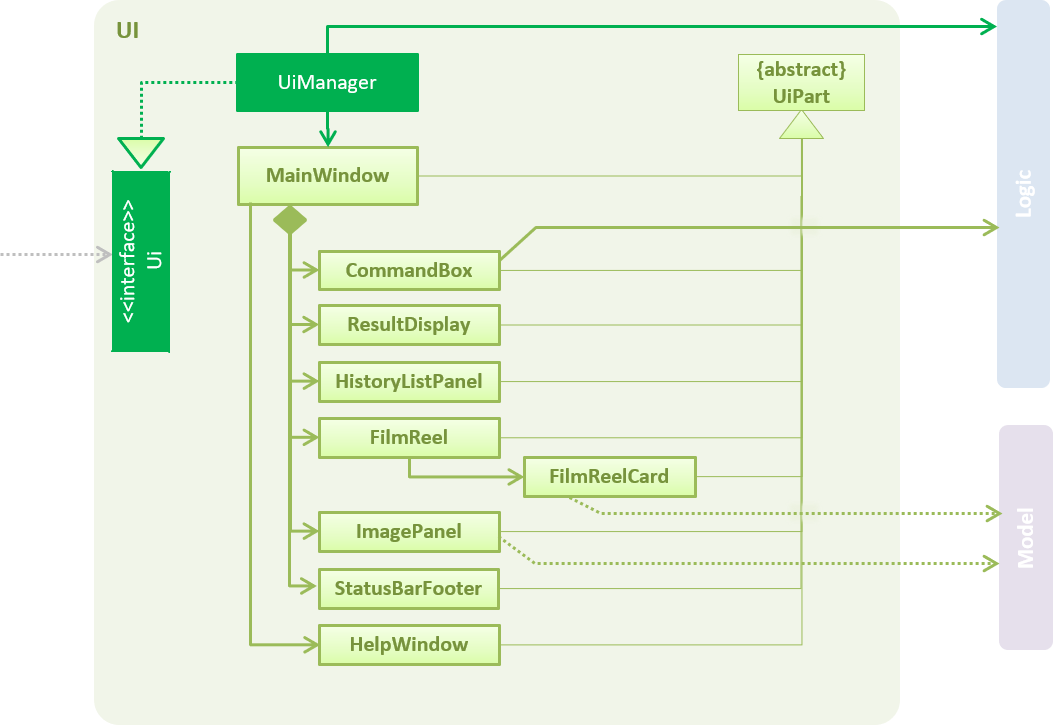
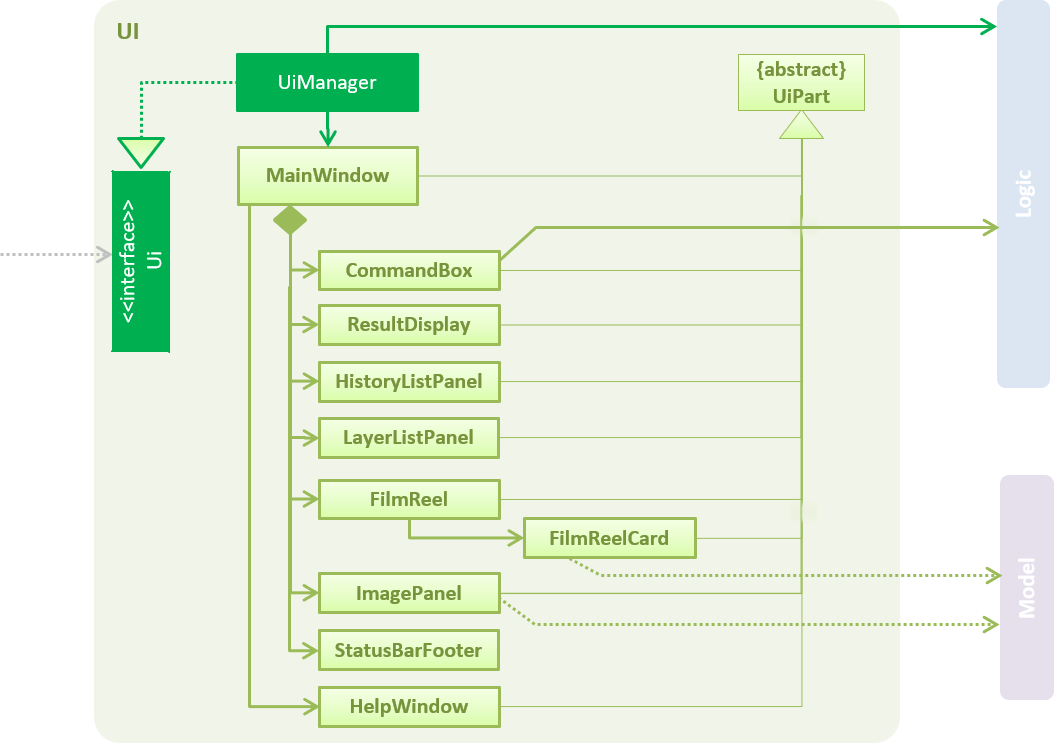
Updated the DG and my PPP.

diff --git a/src/main/java/seedu/address/model/ModelManager.java b/src/main/java/seedu/address/model/ModelManager.java
@@ -273,7 +273,7 @@ public class ModelManager extends ComponentManager implements Model {
     @Override
     public void updateCurrentPreviewImage(BufferedImage image) {
         try {
-            getCanvas().getCurrentLayer().getImage().commit(image);
+            canvas.getCurrentLayer().getImage().commit(image);
             refreshHistoryList();
         } catch (Exception e) {
             logger.severe(e.getMessage());
@@ -315,6 +315,47 @@ public class ModelManager extends ComponentManager implements Model {
     //=========== Canvas and layers ==========================================================================
 
     //@@author j-lum
+
+    /**
+     * Sets the background color of the canvas to the provided color.
+     * @param color - valid color string in either hex, rgb/hsl(a) or none.
+     */
+    public void setBackgroundColor(String color) {
+        canvas.setBackgroundColor(color);
+    }
+
+    /**
+     * Sets the canvas size to the new size provided.
+     * @param height - a integer larger than 0.
+     * @param width - a integer larger than 0.
+     */
+    public void setCanvasSize(int height, int width) {
+        canvas.setHeight(height);
+        canvas.setWidth(width);
+    }
+
+    /**
+     * Turns auto-resizing of the canvas on/off.
+     * @param auto - if true, the canvas auto-resizes.
+     */
+    public void setCanvasAuto(boolean auto) {
+        canvas.setCanvasAuto(auto);
+    }
+
+    /**
+     * @return the height of the canvas.
+     */
+    public int getCanvasHeight() {
+        return canvas.getHeight();
+    }
+
+    /**
+     * @return the width of the canvas.
+     */
+    public int getCanvasWidth() {
+        return canvas.getWidth();
+    }
+
     /**
      * Adds a layer to the canvas, a name is generated automatically.
      * @param i - PreviewImage to add.
@@ -336,28 +377,26 @@ public class ModelManager extends ComponentManager implements Model {
 
     /**
      * Removes the layer at the given index.
-     * @param i - Index of the layer to remove
-     * @return the new index of the current layer
+     * @param i - Index of the layer to remove.
+     * @return the new index of the current layer.
      * @throws IllegalOperationException - thrown if the current layer is being removed
      * or the only layer is being removed.
      */
 
     public Index removeLayer(Index i) throws IllegalOperationException {
         Index tmp = canvas.removeLayer(i);
-        logger.info("refreshing after deleting layers");
         refreshLayerList();
         return tmp;
     }
 
-    public Canvas getCanvas() {
-        return canvas;
-    }
-
     public void setCurrentLayer(Index i) {
-        getCanvas().setCurrentLayer(i);
+        canvas.setCurrentLayer(i);
         refreshLayerList();
     }
 
+    public void setCurrentLayerPosition(int x, int y) {
+        canvas.setCurrentLayerPosition(x, y);
+    }
 
     /**
      * Swaps two layers.
@@ -366,17 +405,20 @@ public class ModelManager extends ComponentManager implements Model {
      * @throws IllegalOperationException - thrown when the two layers are the same.
      */
     public void swapLayer(Index to, Index from) throws IllegalOperationException {
-        getCanvas().swapLayer(to, from);
+        canvas.swapLayer(to, from);
         refreshLayerList();
     }
 
+    public Canvas getCanvas() {
+        return canvas;
+    }
     /**
      * Simple utility function that updates the HistoryListPanel and logs the event.
      */
     public void refreshHistoryList() {
         EventsCenter.getInstance().post(
                 new HistoryUpdateEvent(
-                        getCanvas().getCurrentLayer().getImage().getTransformationsAsString()));
+                        canvas.getCurrentLayer().getImage().getTransformationsAsString()));
     }
 
     /**
@@ -386,6 +428,6 @@ public class ModelManager extends ComponentManager implements Model {
     private void refreshLayerList() {
         EventsCenter.getInstance().post(
                 new LayerUpdateEvent(
-                        getCanvas().getLayerNames(), getCanvas().getCurrentLayerIndex()));
+                        canvas.getLayerNames(), canvas.getCurrentLayerIndex()));
     }
 }

diff --git a/src/test/java/seedu/address/model/ModelManagerTest.java b/src/test/java/seedu/address/model/ModelManagerTest.java
@@ -1,16 +1,33 @@
 package seedu.address.model;
 
+import static org.junit.Assert.assertEquals;
 import static org.junit.Assert.assertFalse;
+import static org.junit.Assert.assertNotNull;
+import static org.junit.Assert.assertNull;
 import static org.junit.Assert.assertTrue;
 
 import org.junit.Rule;
 import org.junit.Test;
 import org.junit.rules.ExpectedException;
 
+import seedu.address.commons.core.index.Index;
+import seedu.address.commons.events.ui.HistoryUpdateEvent;
+import seedu.address.commons.events.ui.LayerUpdateEvent;
+import seedu.address.commons.exceptions.IllegalOperationException;
+import seedu.address.model.transformation.Transformation;
+import seedu.address.testutil.ModelGenerator;
+import seedu.address.testutil.PreviewImageGenerator;
+import seedu.address.testutil.TypicalImages;
+import seedu.address.ui.testutil.EventsCollectorRule;
+
 //TODO: Update tests
 public class ModelManagerTest {
+
     @Rule
     public ExpectedException thrown = ExpectedException.none();
+
+    @Rule
+    public final EventsCollectorRule eventsCollectorRule = new EventsCollectorRule();
 
     private ModelManager modelManager = new ModelManager();
 
@@ -31,5 +48,74 @@ public class ModelManagerTest {
 
         // different userPrefs -> returns true
         UserPrefs differentUserPrefs = new UserPrefs();
+    }
+
+    @Test
+    public void canvasAccessors() {
+        Model model = ModelGenerator.getDefaultModel();
+        assertNotNull(model.getCanvasHeight());
+        assertNotNull(model.getCanvasWidth());
+        assertNotNull(model.getCanvas());
+        int newHeight = 1234;
+        int newWidth = 4567;
+        String color = "#00ff00";
+        boolean auto = true;
+        model.setCanvasSize(newHeight, newWidth);
+        model.setCanvasAuto(auto);
+        model.setBackgroundColor(color);
+        assertEquals(model.getCanvasHeight(), newHeight);
+        assertEquals(model.getCanvasWidth(), newWidth);
+        assertEquals(model.getCanvas().getBackgroundColor(), color);
+        assertEquals(model.getCanvas().isCanvasAuto(), auto);
+    }
+
+    @Test
+    public void layerAccessors() {
+        Model model = ModelGenerator.getDefaultModel();
+        PreviewImage second = PreviewImageGenerator.getPreviewImage(TypicalImages.IMAGE_LIST[1]);
+        Transformation transformation = PreviewImageGenerator.getATransformation();
+        Index one = Index.fromOneBased(1);
+        Index two = Index.fromOneBased(2);
+        int newX = 123;
+        int newY = 456;
+
+        //Testing addLayer
+        assertEquals(model.getCanvas().getLayers().size(), 1);
+        model.addLayer(second);
+        assertEquals(model.getCanvas().getLayers().size(), 2);
+
+        //Testing removeLayer
+        try {
+            model.removeLayer(Index.fromOneBased(2));
+        } catch (IllegalOperationException e) {
+            assertNull(e);
+        }
+
+        //Testing overloaded addLayer
+        assertEquals(model.getCanvas().getLayers().size(), 1);
+        model.addLayer(second, "name");
+        assertEquals(model.getCanvas().getLayers().size(), 2);
+
+        //Testing swapLayer
+        try {
+            model.swapLayer(one, two);
+        } catch (IllegalOperationException e) {
+            assertNull(e);
+        }
+
+        //Testing setCurrentLayer
+        model.setCurrentLayer(one);
+        assertEquals(model.getCanvas().getCurrentLayer().getName(), "name");
+
+        //Testing setCurrentLayerPosition
+        model.setCurrentLayerPosition(newX, newY);
+        assertEquals(model.getCanvas().getCurrentLayer().getX(), newX);
+        assertEquals(model.getCanvas().getCurrentLayer().getY(), newY);
+
+        //Testing misc functions
+        model.addTransformation(transformation);
+        assertEquals(eventsCollectorRule.eventsCollector.getMostRecent().getClass(), HistoryUpdateEvent.class);
+        model.addLayer(second);
+        assertEquals(eventsCollectorRule.eventsCollector.getMostRecent().getClass(), LayerUpdateEvent.class);
     }
 }

diff --git a/src/main/java/seedu/address/logic/commands/canvas/CanvasSizeCommand.java b/src/main/java/seedu/address/logic/commands/canvas/CanvasSizeCommand.java
@@ -39,7 +39,7 @@ public class CanvasSizeCommand extends CanvasCommand {
     public CommandResult execute(Model model, CommandHistory history) throws CommandException {
         if (args == null) {
             return new CommandResult(String.format(OUTPUT_SUCCESS,
-                    model.getCanvas().getWidth(), model.getCanvas().getHeight()));
+                    model.getCanvasWidth(), model.getCanvasHeight()));
         }
         String[] argumentArray = args.trim().split("x", 2);
 
@@ -56,12 +56,11 @@ public class CanvasSizeCommand extends CanvasCommand {
                     + "\n\n"
                     + MESSAGE_USAGE);
         }
-        model.getCanvas().setHeight(newHeight);
-        model.getCanvas().setWidth(newWidth);
+        model.setCanvasSize(newHeight, newWidth);
 
         ImageMagickUtil.render(model.getCanvas(), logger, "preview");
 
         return new CommandResult(String.format(OUTPUT_SUCCESS,
-                model.getCanvas().getWidth(), model.getCanvas().getHeight()));
+                model.getCanvasWidth(), model.getCanvasHeight()));
     }
 }

diff --git a/src/main/java/seedu/address/logic/commands/canvas/CanvasAutoResizeCommand.java b/src/main/java/seedu/address/logic/commands/canvas/CanvasAutoResizeCommand.java
@@ -36,12 +36,12 @@ public class CanvasAutoResizeCommand extends CanvasCommand {
     @Override
     public CommandResult execute(Model model, CommandHistory history) throws CommandException {
         if (args.equalsIgnoreCase("on")) {
-            model.getCanvas().setCanvasAuto(true);
+            model.setCanvasAuto(true);
             ImageMagickUtil.render(model.getCanvas(), logger, "preview");
             return new CommandResult(String.format(OUTPUT_SUCCESS, args.toLowerCase()));
         }
         if (args.equalsIgnoreCase("off")) {
-            model.getCanvas().setCanvasAuto(false);
+            model.setCanvasAuto(false);
             ImageMagickUtil.render(model.getCanvas(), logger, "preview");
             return new CommandResult(String.format(OUTPUT_SUCCESS, args.toLowerCase()));
         }

diff --git a/src/main/java/seedu/address/logic/commands/canvas/CanvasBgcolorCommand.java b/src/main/java/seedu/address/logic/commands/canvas/CanvasBgcolorCommand.java
@@ -39,7 +39,7 @@ public class CanvasBgcolorCommand extends CanvasCommand {
     @Override
     public CommandResult execute(Model model, CommandHistory history) throws CommandException {
         if (args.matches(HEX_REGEX) || args.matches(VERBOSE_REGEX) || args.matches(NONE_REGEX)) {
-            model.getCanvas().setBackgroundColor(args);
+            model.setBackgroundColor(args);
             ImageMagickUtil.render(model.getCanvas(), logger, "preview");
             return new CommandResult(String.format(OUTPUT_SUCCESS, args));
         }

diff --git a/src/main/java/seedu/address/model/Model.java b/src/main/java/seedu/address/model/Model.java
@@ -166,7 +166,19 @@ public interface Model {
 
     void swapLayer(Index to, Index from) throws IllegalOperationException;
 
+    void setCanvasSize(int height, int width);
+
+    void setBackgroundColor(String color);
+
+    void setCanvasAuto(boolean auto);
+
+    int getCanvasHeight();
+
+    int getCanvasWidth();
+
     Canvas getCanvas();
 
     void refreshHistoryList();
+
+    void setCurrentLayerPosition(int newX, int newY);
 }

diff --git a/src/main/java/seedu/address/logic/commands/layer/LayerPositionCommand.java b/src/main/java/seedu/address/logic/commands/layer/LayerPositionCommand.java
@@ -50,8 +50,7 @@ public class LayerPositionCommand extends LayerCommand {
         } catch (NumberFormatException e) {
             throw new CommandException(OUTPUT_FAILURE);
         }
-        model.getCanvas().getCurrentLayer().setX(newX);
-        model.getCanvas().getCurrentLayer().setY(newY);
+        model.setCurrentLayerPosition(newX, newY);
 
         ImageMagickUtil.render(model.getCanvas(), logger, "preview");
 

diff --git a/src/main/java/seedu/address/model/canvas/Layer.java b/src/main/java/seedu/address/model/canvas/Layer.java
@@ -55,6 +55,16 @@ public class Layer {
         this.y = y;
     }
 
+    /**
+     * Sets the position of the layer to the provided co-ordinates
+     * @param x - the new X position of the layer
+     * @param y - the new Y position of the layer
+     */
+    public void setPosition(int x, int y) {
+        setX(x);
+        setY(y);
+    }
+
     public int getHeight() {
         return height;
     }

diff --git a/src/test/java/seedu/address/testutil/ModelGenerator.java b/src/test/java/seedu/address/testutil/ModelGenerator.java
@@ -30,7 +30,7 @@ public class ModelGenerator {
     /**
      * Returns a dummy image read from resources (original.png).
      */
-    private static BufferedImage getABufferedImage() {
+    public static BufferedImage getABufferedImage() {
         BufferedImage originalImage = null;
         try {
             ClassLoader classLoader = ModelGenerator.class.getClassLoader();

diff --git a/src/main/java/seedu/address/model/canvas/Canvas.java b/src/main/java/seedu/address/model/canvas/Canvas.java
@@ -76,6 +76,10 @@ public class Canvas {
         return currentLayer;
     }
 
+    public void setCurrentLayerPosition(int x, int y) {
+        currentLayer.setPosition(x, y);
+    }
+
     public Index getCurrentLayerIndex() {
         return currentLayerIndex;
     }
